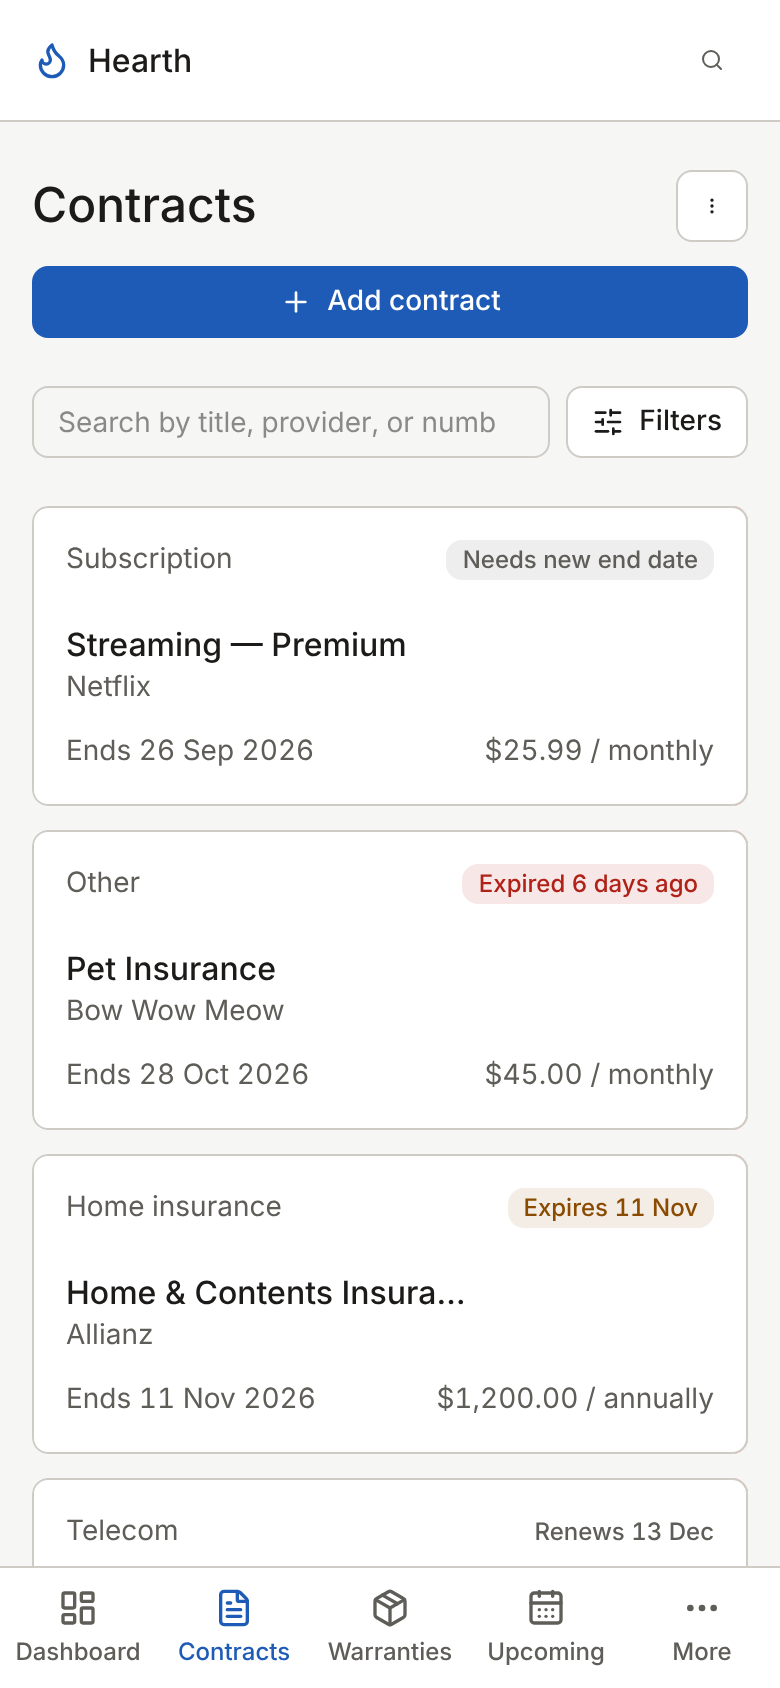
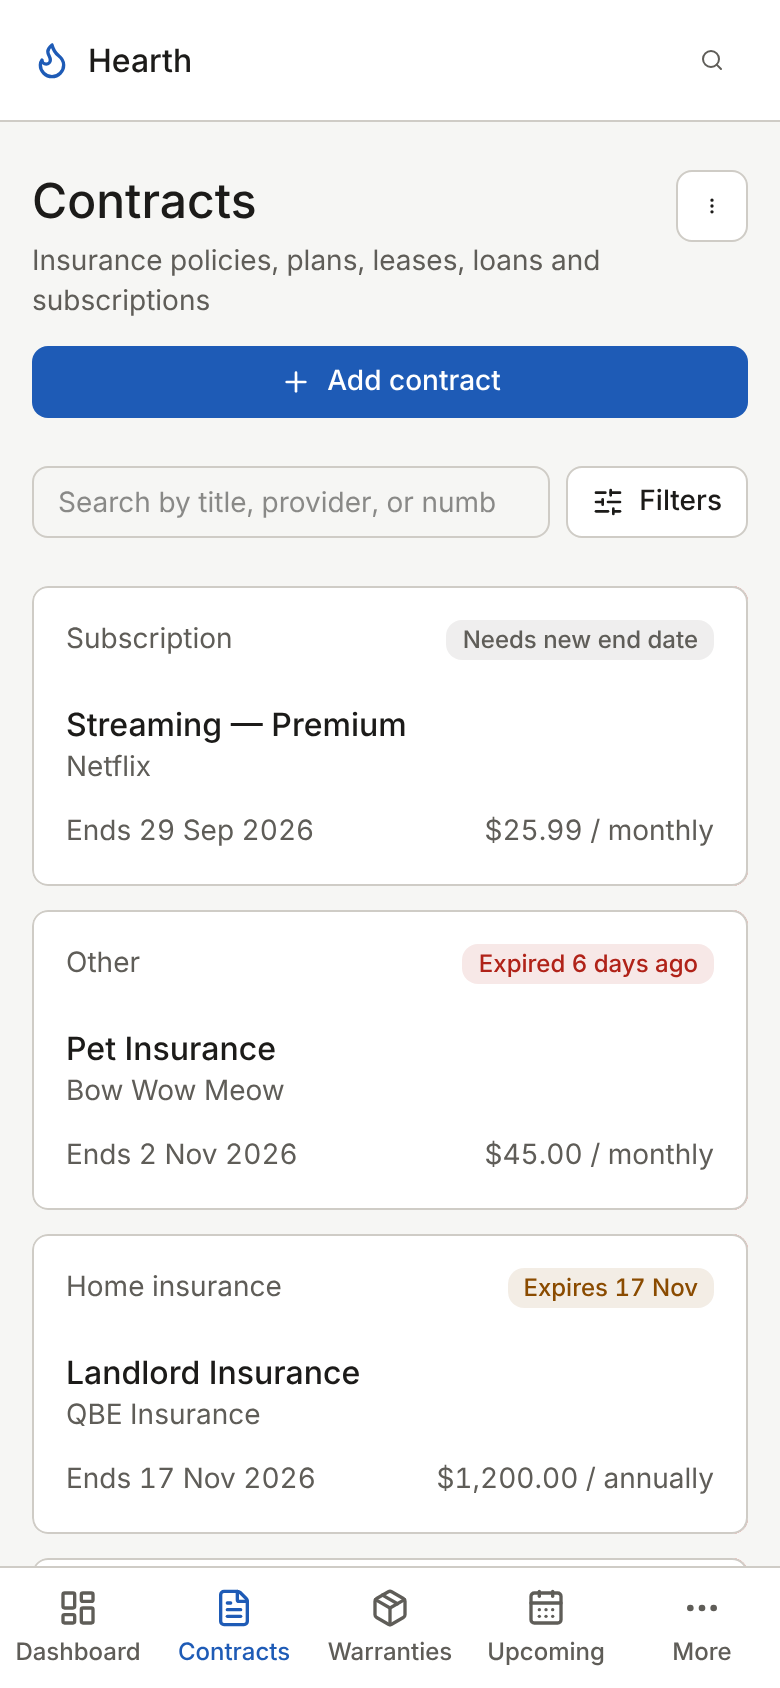
Say what the Contracts page holds under its heading
Adds an optional description line to ListPageHeader and uses it on the
Contracts list: "Insurance policies, plans, leases, loans and
subscriptions", so an insurance policy's place is clear without renaming
the section (GLOSSARY.md keeps Contract as the record name, #362).
Refreshes the Contracts list screenshots (light, dark, phone).

diff --git a/src/components/ListPageHeader.tsx b/src/components/ListPageHeader.tsx
@@ -17,12 +17,17 @@ export interface ListPageAction {
 // `md` the heading keeps its own line with Export tucked into the ⋮ menu
 // beside it, and the button drops underneath at full width, so nothing
 // wraps on a 360px phone. Callers leave `action` out for read-only members.
+// `description` is an optional one-line note under the heading, for a name
+// broader than it looks (Contracts also holds insurance policies).
 export function ListPageHeader({
   title,
+  description,
   exportPath,
   action,
 }: {
   title: string;
+  /** One line under the heading saying what kinds of record the page holds. */
+  description?: string;
   /** e.g. "/api/export/contracts"; the CSV and PDF links add ?format=. */
   exportPath?: string;
   action?: ListPageAction;
@@ -30,8 +35,11 @@ export function ListPageHeader({
   const online = action?.online ?? true;
   return (
     <div className="space-y-3 md:flex md:items-center md:justify-between md:gap-4 md:space-y-0">
-      <div className="flex items-center justify-between gap-2">
-        <h1 className="text-2xl font-medium">{title}</h1>
+      <div className={cn("flex justify-between gap-2", description ? "items-start" : "items-center")}>
+        <div className="min-w-0">
+          <h1 className="text-2xl font-medium">{title}</h1>
+          {description && <p className="mt-1 text-sm text-muted">{description}</p>}
+        </div>
         {exportPath && (
           <div className="md:hidden">
             <DetailOverflowMenu label="More list actions">

diff --git a/src/components/ContractListClient.tsx b/src/components/ContractListClient.tsx
@@ -191,6 +191,7 @@ export function ContractListClient({
     <PageShell width="list">
       <ListPageHeader
         title="Contracts"
+        description="Insurance policies, plans, leases, loans and subscriptions"
         exportPath={nothingYet ? undefined : "/api/export/contracts"}
         action={canWrite ? { href: "/contracts/new", label: "Add contract", online } : undefined}
       />

diff --git a/CHANGELOG.md b/CHANGELOG.md
@@ -195,6 +195,11 @@ Versions follow [Semantic Versioning](https://semver.org/), starting at `0.1.0`.
 
 ### Changed
 
+- **The Contracts page says what it holds.** A line under the heading reads
+  "Insurance policies, plans, leases, loans and subscriptions", so it's clear
+  an insurance policy belongs under Contracts. The name itself stays
+  Contracts (`GLOSSARY.md`, #362).
+
 - **Search shows one result per Document, not one per version.** A
   re-uploaded file and the version it replaced usually match the same words,
   and used to show as two identical rows. Search now shows the latest
